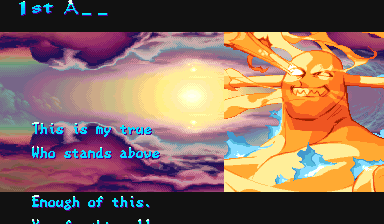
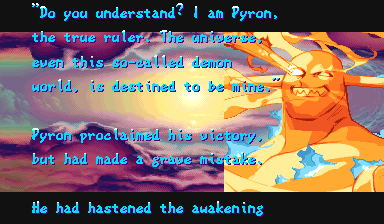
Update stale ending screenshot on Night Warriors 2 page
Replace the outdated ending narration capture (older build, debug overlay,
fragmentary text) with the current rc1 acceptance capture of Pyron's ending,
and name the character in the caption. Screenshot-only change; patch data and
bundles are unchanged.

diff --git a/docs/vhunt2-english/index.html b/docs/vhunt2-english/index.html
@@ -23,7 +23,7 @@
 <figure class="shot"><div class="pair"><div><p class="label">Original</p><img src="../img/vhunt2-english/00_before.png" alt="Original: Title screen. The arcade-native Night Warriors 2 logo, completed from the unused Western title path in the original ROM."></div><div><p class="label">Patched</p><img src="../img/vhunt2-english/00_after.png" alt="Patched: Title screen. The arcade-native Night Warriors 2 logo, completed from the unused Western title path in the original ROM."></div></div><figcaption>Title screen. The arcade-native Night Warriors 2 logo, completed from the unused Western title path in the original ROM.</figcaption></figure>
 <figure class="shot"><div class="pair"><div><p class="label">Original</p><img src="../img/vhunt2-english/01_before.png" alt="Original: Character select. Phobos becomes Huitzil, his official Western name."></div><div><p class="label">Patched</p><img src="../img/vhunt2-english/01_after.png" alt="Patched: Character select. Phobos becomes Huitzil, his official Western name."></div></div><figcaption>Character select. Phobos becomes Huitzil, his official Western name.</figcaption></figure>
 <figure class="shot single"><img src="../img/vhunt2-english/02_single.png" alt="Post-fight quotes — all 225 messages are in English (Anakaris shown)."><figcaption>Post-fight quotes — all 225 messages are in English (Anakaris shown).</figcaption></figure>
-<figure class="shot single"><img src="../img/vhunt2-english/03_single.png" alt="Ending narration in English, captured on a natural playthrough route."><figcaption>Ending narration in English, captured on a natural playthrough route.</figcaption></figure>
+<figure class="shot single"><img src="../img/vhunt2-english/03_single.png" alt="Ending narration in English, captured on a natural playthrough route (Pyron&#x27;s ending shown)."><figcaption>Ending narration in English, captured on a natural playthrough route (Pyron&#x27;s ending shown).</figcaption></figure>
 <h2>About this patch</h2>
 <p>Vampire Hunter 2 is a 1997 Capcom fighter that only ever reached Japanese arcades. Its predecessor came to the West as Night Warriors: Darkstalkers&#x27; Revenge, but this sequel never made the trip. This patch translates the whole game into English and gives it the Western name it should have had: Night Warriors 2.</p>
 <p>The Night Warriors 2 title screen isn&#x27;t a fan mock-up. An unused Western title was already tucked away inside the original game — the patch finishes it and switches it on, leaving the gameplay exactly as it was.</p>
